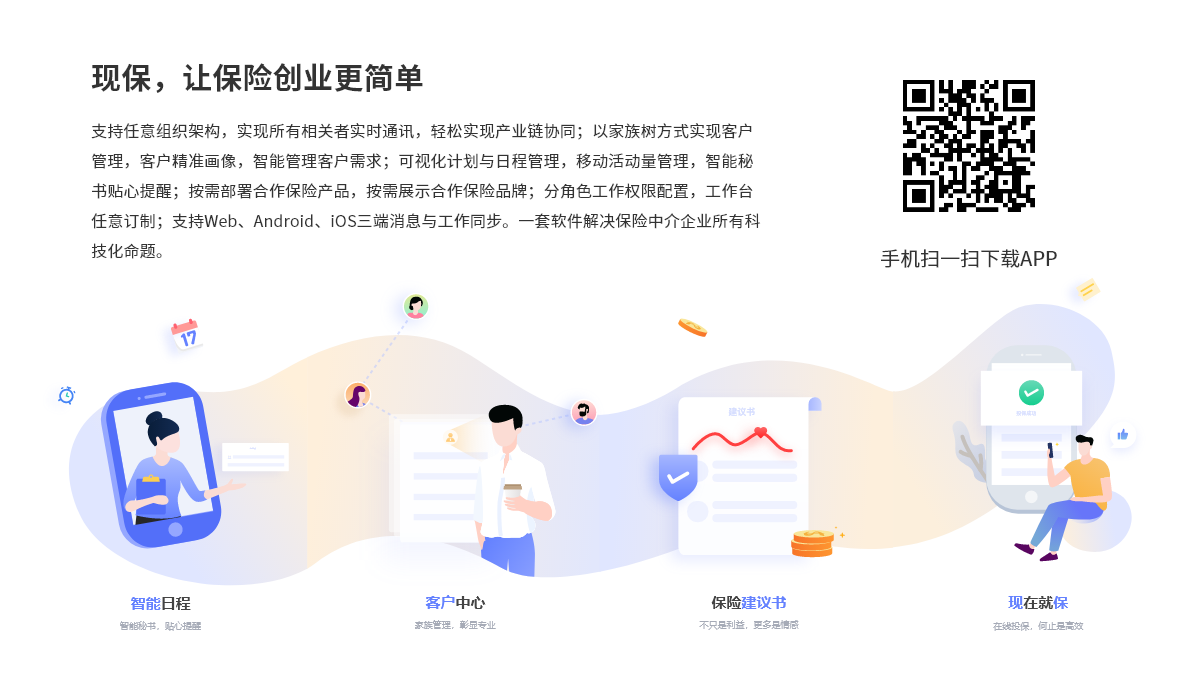
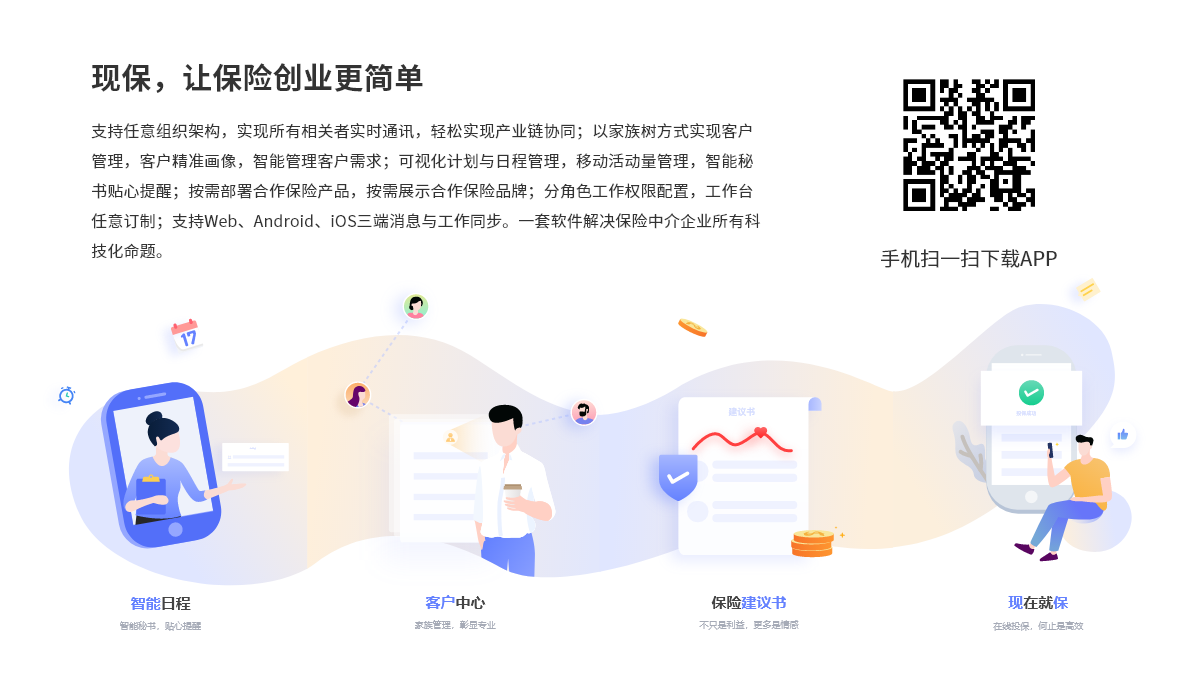
modify product and download

Changed region(s): [[0.74, 0.0933, 0.8633, 0.3111]]

diff --git a/src/views/Product.vue b/src/views/Product.vue
@@ -244,7 +244,7 @@
       <mt-tab-container-item id="3">
         <!-- <div class="insurance-text" v-html="product.underwritingRulesText"></div> -->
         <img
-          v-for="(item, index) in product.underwritingRulesImage"
+          v-for="(item, index) in product.insuranceRulePdf"
           class="policy-wording-images"
           preview="1"
           :src="item"
@@ -259,7 +259,7 @@
             </embed>
         </object>-->
         <img
-          v-for="(item, index) in product.insuranceLiabilityImage"
+          v-for="(item, index) in product.insuranceLiabilityPdf"
           class="policy-wording-images"
           preview="2"
           :src="item"
@@ -399,15 +399,15 @@ export default {
           typeof this.product.descPicture === "string" &&
             (this.product.descPicture = this.product.descPicture.split(","));
           // 投保规则图片转换
-          // typeof this.product.insuranceRulePdf === "string" &&
-          //   (this.product.insuranceRulePdf = this.product.insuranceRulePdf.split(
-          //     ","
-          //   ));
+          typeof this.product.insuranceRulePdf === "string" &&
+            (this.product.insuranceRulePdf = this.product.insuranceRulePdf.split(
+              ","
+            ));
 // 产品条款图片转换
-          // typeof this.product.insuranceLiabilityPdf === "string" &&
-          //   (this.product.insuranceLiabilityPdf = this.product.insuranceLiabilityPdf.split(
-          //     ","
-          //   ));
+          typeof this.product.insuranceLiabilityPdf === "string" &&
+            (this.product.insuranceLiabilityPdf = this.product.insuranceLiabilityPdf.split(
+              ","
+            ));
           // console.log("ProductDetail: ", res);
           this.$nextTick(() => {
             this.offsetTop =

diff --git a/src/api/download.js b/src/api/download.js
@@ -4,12 +4,15 @@ import config from '@/config'
 const controller = config.baseUrl.domain5 + config.controllers.version
 
 /**
- * 获取版本分页列表
+ * 获取安卓最新版本
  * @param {*} param0 
  */
 export const getVersionPage = () => {
   return axios.request({
     url: controller + `/findAll/${1}/${1}`,
-    method: 'get'
+    method: 'get',
+    params: {
+      type: 0
+    }
   })
 }

diff --git a/src/views/Download.vue b/src/views/Download.vue
@@ -62,7 +62,7 @@ export default {
     navigator.userAgent.indexOf("MicroMessenger") > -1 && (this.isWeChat = true)
     getVersionPage().then(res => {
       res.list[0] && (this.version = res.list[0])
-      console.log(this.version)
+      // console.log(this.version)
     })
   },
   methods: {

diff --git a/public/README.md b/public/README.md
@@ -54,3 +54,9 @@ V1.0.1.19101202_Alpha
 
 V1.0.1.19111201_Alpha
 1. 添加华圣百惠Android下载链接
+
+V1.0.1.19112701_Alpha
+1. 修改现保Android下载链接
+
+V1.0.1.19112702_Alpha
+1. 修改产品详情显示问题
